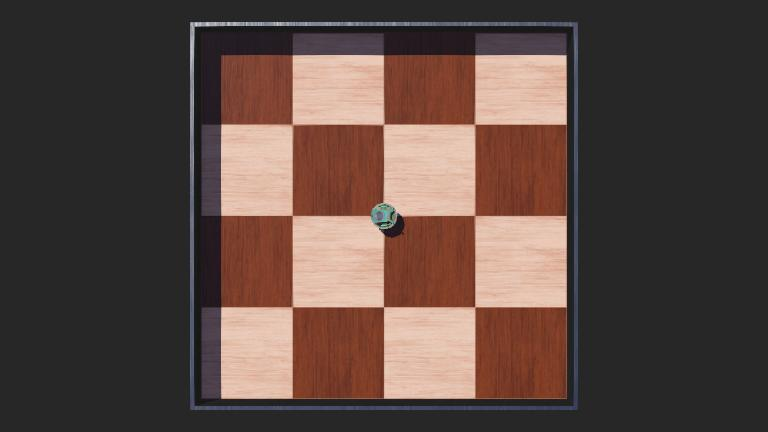
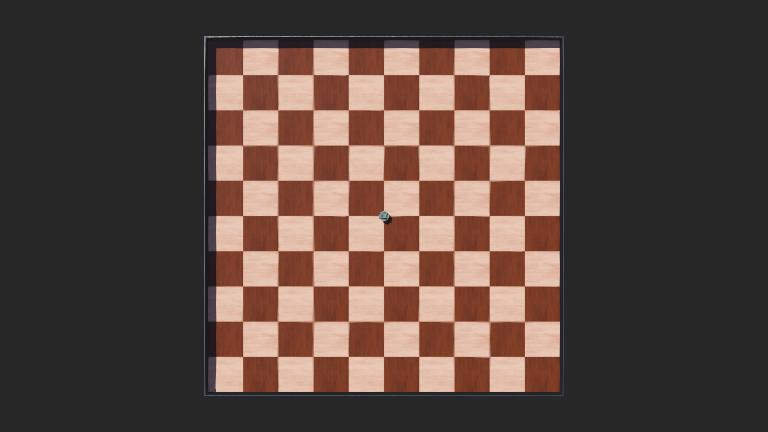
moving func

Changed region(s): [[0.25, 0.0301, 0.75, 0.963]]

diff --git a/controllers/motion_controller/motion_controller.py b/controllers/motion_controller/motion_controller.py
@@ -1,31 +1,68 @@
 from controller import Robot
 
 TIME_STEP = 32
-FOEWARD_SPEED = 3.0
-MOVE_DURATION = 3.0
+
+WHEEL_RADIUS = 0.0205
+FORWARD_SPEED = 3.0
 
 robot = Robot()
 
 left_motor = robot.getDevice("left wheel motor")
 right_motor = robot.getDevice("right wheel motor")
 
-left_motor.setPosition(flot("inf"))
-right_motor.setPosition(flot("inf"))
+left_motor.setPosition(float("inf"))
+right_motor.setPosition(float("inf"))
 
 left_motor.setVelocity(0.0)
 right_motor.setVelocity(0.0)
 
-start_time = robot.getTime()
+left_encoder = left_motor.getPositionSensor()
+right_encoder = right_motor.getPositionSensor()
 
-while robot.step(TIME_STEP) != -1:
+left_encoder.enable(TIME_STEP)
+right_encoder.enable(TIME_STEP)
+
+
+def stop_motors():
+    left_motor.setVelocity(0.0)
+    right_motor.setVelocity(0.0)
+
+
+def move_distance(target_distance, speed=FORWARD_SPEED):
+
+    direction = 1
+
+    if target_distance < 0:
+        direction = -1
+        target_distance = abs(target_distance)
+
+    start_left = left_encoder.getValue()
+    start_right = right_encoder.getValue()
+
+    while robot.step(TIME_STEP) != -1:
+
+        current_left = left_encoder.getValue()
+        current_right = right_encoder.getValue()
+
+        left_rotation = abs(current_left - start_left)
+        right_rotation = abs(current_right - start_right)
+
+        left_distance = left_rotation * WHEEL_RADIUS
+        right_distance = right_rotation * WHEEL_RADIUS
+
+        travelled_distance = (left_distance + right_distance) / 2
+
+        if travelled_distance < target_distance:
+            left_motor.setVelocity(speed * direction)
+            right_motor.setVelocity(speed * direction)
+        else:
+            stop_motors()
+            print(f"Moved {travelled_distance:.3f} m")
+            return
     
-    elapsed_time = robot.getTime() - start_time
 
-    if elapsed_time < MOVE_DURATION:
-        left_motor.setVelocity(FORWARD_SPEED)
-        right_motor.setVelocity(FORWARD_SPEED)
-    else:
-        left_motor.setVelocity(0.0)
-        right_motor.setVelocity(0.0)
-        print("Forward movement completed.")
-        break
+robot.step(TIME_STEP)
+
+move_distance(-0.50)
+
+print("Movement completed.")